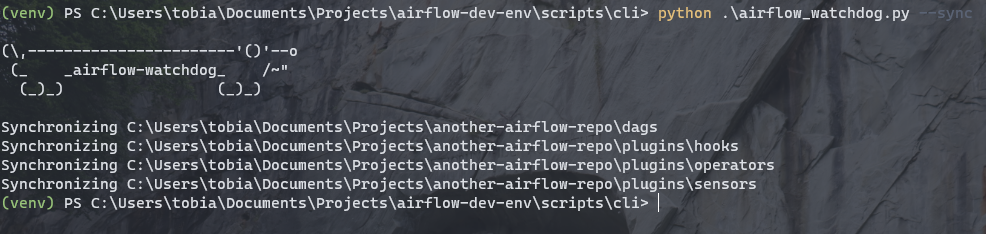
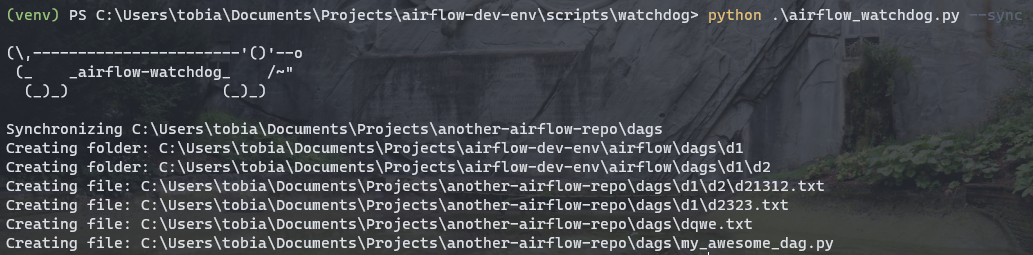
#11 Updated documentation

diff --git a/scripts/watchdog/Watchdog.md b/scripts/watchdog/Watchdog.md
@@ -51,6 +51,7 @@ Execute `python airflow_watchdog.py --sync`
 ![managepy_watchdog_triggersynconce.png](../../images/managepy_watchdog_triggersynconce.png)
 
 ### Start Watchdog (continuous sync)
-Execute `python airflow_watchdog.py` and receive continuous logs what was detected and done.
-<!-- TODO Show Watchdog -->
-<!-- Do you need to trigger once manually before "watching" works? Or does it work folder-wide? -->
+Execute `python airflow_watchdog.py` and continuously sync your configured folders.
+
+![managepy_watchdog_triggersynconce.png](../../images/managepy_watchdog_continuoussync.png)
+
